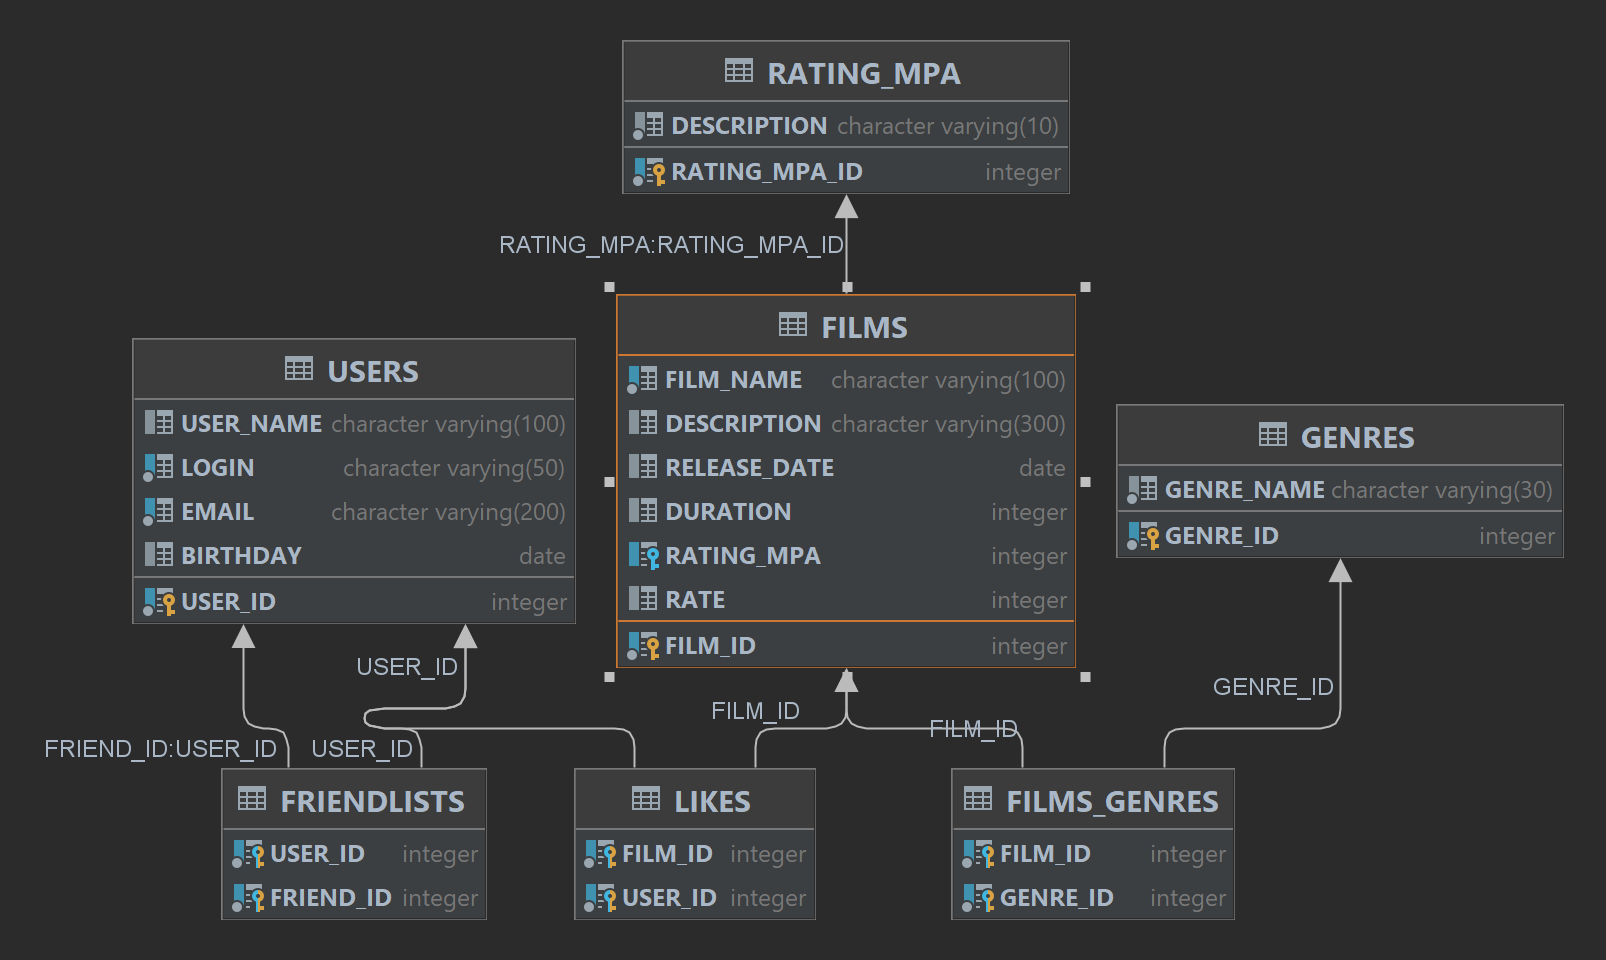
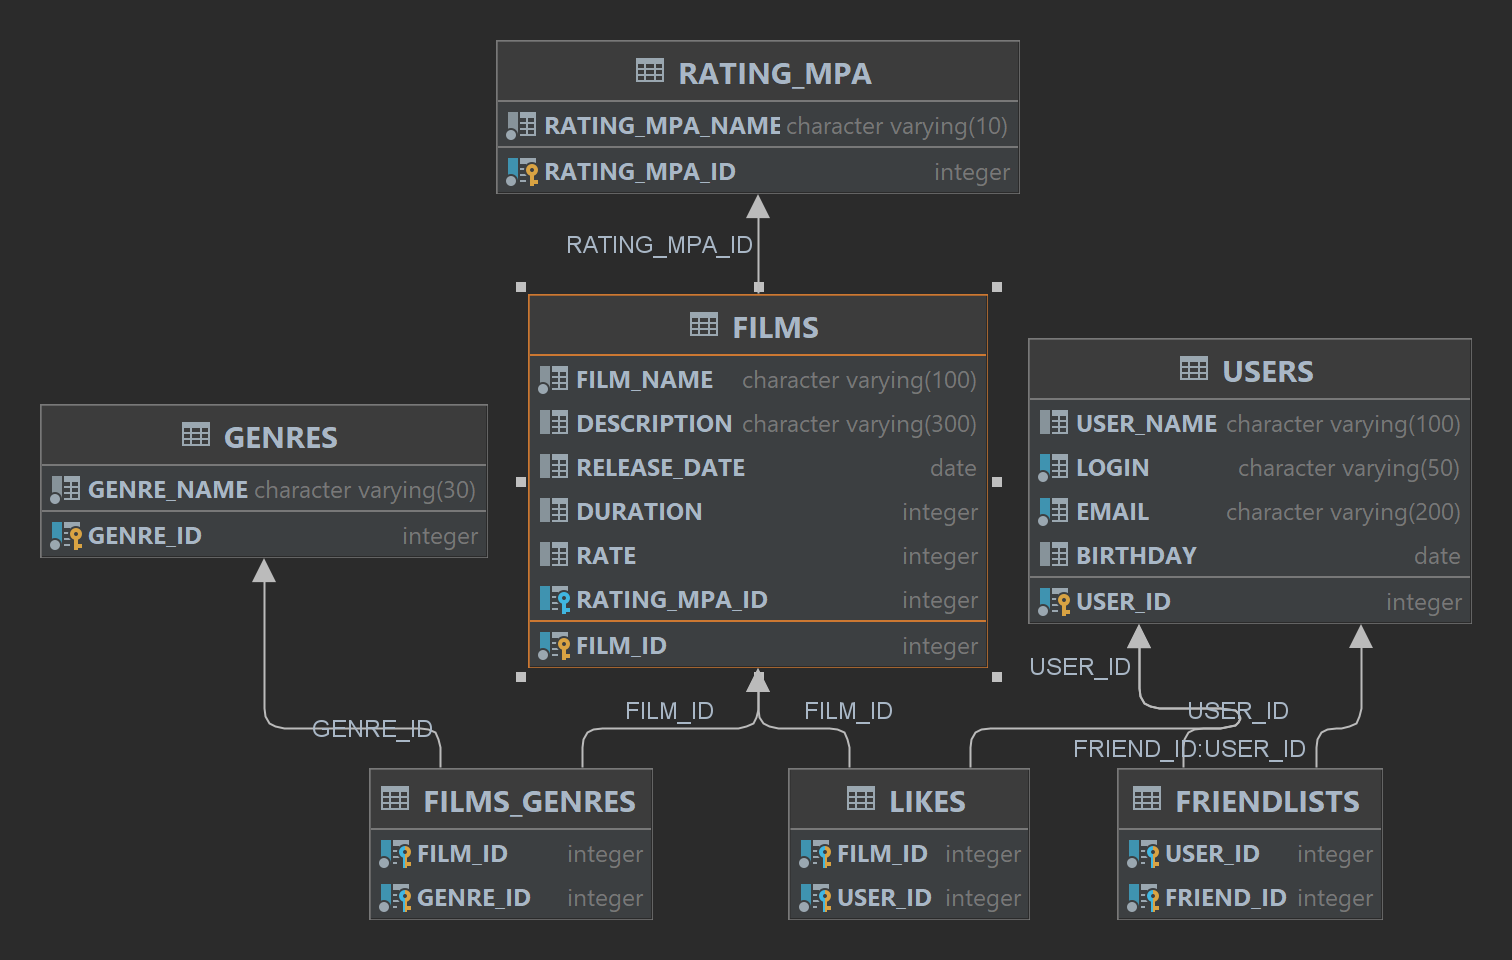
Поправил название столбцов в SQL запросах Обращать внимание на используемые столбцы, если названия столбцов совпадают из разных таблиц

diff --git a/src/main/java/ru/yandex/practicum/filmorate/storage/film/FilmDbStorage.java b/src/main/java/ru/yandex/practicum/filmorate/storage/film/FilmDbStorage.java
@@ -32,8 +32,8 @@ public class FilmDbStorage implements FilmStorage {
         LocalDate releaseDate = rs.getDate("RELEASE_DATE").toLocalDate();
         int duration = rs.getInt("DURATION");
         int rate = rs.getInt("RATE");
-        Mpa mpa = new Mpa(rs.getLong("RATING_MPA"), rs.getString("DESCRIPTION"));
-        Set<Genre> genres = genreMap.getOrDefault(id, new HashSet<>()); // проверить можно ли так записать в Set!!!
+        Mpa mpa = new Mpa(rs.getLong("RATING_MPA_ID"), rs.getString("RATING_MPA_NAME"));
+        Set<Genre> genres = genreMap.getOrDefault(id, new HashSet<>());
 
         return new Film(id, name, description, releaseDate, duration, rate, mpa, genres);
     }
@@ -60,8 +60,8 @@ public class FilmDbStorage implements FilmStorage {
     @Override
     public Collection<Film> findAllFilms() {
         String sqlFilm = "select f.FILM_ID, f.FILM_NAME, f.DESCRIPTION, f.RELEASE_DATE, " +
-                "f.DURATION, f.RATE, f.RATING_MPA, mpa.DESCRIPTION " +
-                "from FILMS as f join RATING_MPA as mpa on f.RATING_MPA = mpa.RATING_MPA_ID";
+                "f.DURATION, f.RATE, f.RATING_MPA_ID, mpa.RATING_MPA_NAME " +
+                "from FILMS as f join RATING_MPA as mpa on f.RATING_MPA_ID = mpa.RATING_MPA_ID";
 
         String sqlGenre = "select fg.FILM_ID, fg.GENRE_ID, g.GENRE_NAME " +
                 "from FILMS_GENRES as fg join GENRES as g on fg.GENRE_ID = g.GENRE_ID";
@@ -78,8 +78,8 @@ public class FilmDbStorage implements FilmStorage {
     public Optional<Film> getFilmByID(Long filmId) {
         // выполняем запрос к базе данных
         String sqlFilm = "select f.FILM_ID, f.FILM_NAME, f.DESCRIPTION, f.RELEASE_DATE, " +
-                "f.DURATION, f.RATE, f.RATING_MPA, mpa.DESCRIPTION " +
-                "from FILMS as f join RATING_MPA as mpa on f.RATING_MPA = mpa.RATING_MPA_ID " +
+                "f.DURATION, f.RATE, f.RATING_MPA_ID, mpa.RATING_MPA_NAME " +
+                "from FILMS as f join RATING_MPA as mpa on f.RATING_MPA_ID = mpa.RATING_MPA_ID " +
                 "where f.FILM_ID = ?";
 
         String sqlGenre = "select fg.FILM_ID, fg.GENRE_ID, g.GENRE_NAME " +
@@ -99,7 +99,7 @@ public class FilmDbStorage implements FilmStorage {
                     filmRow.getDate("RELEASE_DATE").toLocalDate(),
                     filmRow.getInt("DURATION"),
                     filmRow.getInt("RATE"),
-                    new Mpa(filmRow.getLong("RATING_MPA"), filmRow.getString("DESCRIPTION")),
+                    new Mpa(filmRow.getLong("RATING_MPA_ID"), filmRow.getString("RATING_MPA_NAME")),
                     genreMap.getOrDefault(filmId, new HashSet<>())
             );
             log.info("Найден фильм: {} {}", film.getId(), film.getName());
@@ -109,7 +109,6 @@ public class FilmDbStorage implements FilmStorage {
             return Optional.empty();
         }
     }
-
 
     // создание фильма
     @Override
@@ -140,7 +139,7 @@ public class FilmDbStorage implements FilmStorage {
         values.put("RELEASE_DATE", film.getReleaseDate());
         values.put("DURATION", film.getDuration());
         values.put("RATE", film.getRate());
-        values.put("RATING_MPA", film.getMpa().getId());
+        values.put("RATING_MPA_ID", film.getMpa().getId());
         return values;
     }
 
@@ -148,7 +147,7 @@ public class FilmDbStorage implements FilmStorage {
     @Override
     public Film updateFilm(Film film) {
         String sqlFilm = "update FILMS set " +
-                "FILM_NAME = ?, DESCRIPTION = ?, RELEASE_DATE =?, DURATION = ?, RATE = ?, RATING_MPA = ? " +
+                "FILM_NAME = ?, DESCRIPTION = ?, RELEASE_DATE =?, DURATION = ?, RATE = ?, RATING_MPA_ID = ? " +
                 "WHERE FILM_ID = ?";
 
         jdbcTemplate.update(sqlFilm,
@@ -180,12 +179,18 @@ public class FilmDbStorage implements FilmStorage {
         jdbcTemplate.update(sqlAddLike, filmId, userId);
 
         // надо RATE в таблице FILMS обновить
-        String sqlIncreaseRate = "UPDATE FILMS as f SET f.RATE = (" +
+        String sqlIncreaseRate = "UPDATE FILMS as f SET f.RATE = f.RATE + 1 WHERE f.FILM_ID = ? ";
+
+        // ниже код, если считаем RATE по таблице LIKES каждый раз после добавления/удаления лайка
+        // в тестах подразумевается, что добавил лайк +1 к RATE, удалил лайк -1 от RATE
+        // что оптимальнее и правильнее наверное
+        /* "(" +
                 "SELECT COUNT(l.USER_ID) " +
                 "FROM LIKES as l " +
                 "WHERE l.FILM_ID = ?)" +
                 "WHERE f.FILM_ID = ?";
-        jdbcTemplate.update(sqlIncreaseRate, filmId, filmId);
+         */
+        jdbcTemplate.update(sqlIncreaseRate, filmId);
         log.debug("Пользователь {} поставил лайк фильму {}", userId, filmId);
     }
 
@@ -197,12 +202,16 @@ public class FilmDbStorage implements FilmStorage {
         jdbcTemplate.update(sqlRemoveLike, filmId, userId);
 
         // надо RATE в таблице FILMS обновить
-        String sqlDecreaseRate = "UPDATE FILMS as f SET f.RATE = (" +
+        String sqlDecreaseRate = "UPDATE FILMS as f SET f.RATE = f.RATE - 1 WHERE f.FILM_ID = ? ";
+        /*
+                "(" +
                 "SELECT COUNT(l.USER_ID) " +
                 "FROM LIKES as l " +
                 "WHERE l.FILM_ID = ?)" +
                 "WHERE f.FILM_ID = ?";
-        jdbcTemplate.update(sqlDecreaseRate, filmId, filmId);
+
+         */
+        jdbcTemplate.update(sqlDecreaseRate, filmId);
         log.debug("Пользователь {} удалил лайк фильму {}", userId, filmId);
     }
 
@@ -210,8 +219,8 @@ public class FilmDbStorage implements FilmStorage {
     @Override
     public List<Film> getPopularFilms(Integer count) {
         String sqlFilm = "select f.FILM_ID, f.FILM_NAME, f.DESCRIPTION, f.RELEASE_DATE, " +
-                "f.DURATION, f.RATE, f.RATING_MPA, mpa.DESCRIPTION " +
-                "from FILMS as f join RATING_MPA as mpa on f.RATING_MPA = mpa.RATING_MPA_ID " +
+                "f.DURATION, f.RATE, f.RATING_MPA_ID, mpa.RATING_MPA_NAME " +
+                "from FILMS as f join RATING_MPA as mpa on f.RATING_MPA_ID = mpa.RATING_MPA_ID " +
                 "ORDER BY f.RATE DESC " +
                 "LIMIT ?";
 

diff --git a/src/main/java/ru/yandex/practicum/filmorate/controller/MpaController.java b/src/main/java/ru/yandex/practicum/filmorate/controller/MpaController.java
@@ -5,12 +5,12 @@ import org.springframework.web.bind.annotation.GetMapping;
 import org.springframework.web.bind.annotation.PathVariable;
 import org.springframework.web.bind.annotation.RequestMapping;
 import org.springframework.web.bind.annotation.RestController;
+import ru.yandex.practicum.filmorate.exceptions.NotFoundException;
 import ru.yandex.practicum.filmorate.exceptions.ValidationException;
 import ru.yandex.practicum.filmorate.model.Mpa;
 import ru.yandex.practicum.filmorate.service.MpaService;
 
 import java.util.Collection;
-import java.util.Optional;
 
 @RestController
 @RequestMapping("/mpa")
@@ -28,10 +28,10 @@ public class MpaController {
     }
 
     @GetMapping("/{id}") // получение рейтинга по ID
-    public Optional<Mpa> getGenreByID(@PathVariable Long id) {
+    public Mpa getGenreByID(@PathVariable Long id) {
         if (id == 0) {
             throw new ValidationException("Передан пустой ID");
         }
-        return mpaService.getMpaByID(id);
+        return mpaService.getMpaByID(id).orElseThrow(() -> new NotFoundException("MPA with id=" + id + " not found"));
     }
 }

diff --git a/src/main/java/ru/yandex/practicum/filmorate/controller/GenreController.java b/src/main/java/ru/yandex/practicum/filmorate/controller/GenreController.java
@@ -2,12 +2,12 @@ package ru.yandex.practicum.filmorate.controller;
 
 import org.springframework.beans.factory.annotation.Autowired;
 import org.springframework.web.bind.annotation.*;
+import ru.yandex.practicum.filmorate.exceptions.NotFoundException;
 import ru.yandex.practicum.filmorate.exceptions.ValidationException;
 import ru.yandex.practicum.filmorate.model.Genre;
 import ru.yandex.practicum.filmorate.service.GenreService;
 
 import java.util.Collection;
-import java.util.Optional;
 
 @RestController
 @RequestMapping("/genres")
@@ -25,10 +25,10 @@ public class GenreController {
     }
 
     @GetMapping("/{id}") // получение жанра по ID
-    public Optional<Genre> getGenreByID(@PathVariable Long id) {
+    public Genre getGenreByID(@PathVariable Long id) {
         if (id == null) {
             throw new ValidationException("Передан пустой ID");
         }
-        return genreService.getGenreByID(id);
+        return genreService.getGenreByID(id).orElseThrow(() -> new NotFoundException("Genre with id=" + id + " not found"));
     }
 }

diff --git a/src/main/java/ru/yandex/practicum/filmorate/storage/mpa/MpaDbStorage.java b/src/main/java/ru/yandex/practicum/filmorate/storage/mpa/MpaDbStorage.java
@@ -22,8 +22,8 @@ public class MpaDbStorage implements MpaStorage {
 
     private Mpa makeMpa(ResultSet rs) throws SQLException {
         // используем конструктор, методы ResultSet и готовое значение mpa
-        Long id = rs.getLong("RATING_MPA");
-        String description = rs.getString("DESCRIPTION");
+        Long id = rs.getLong("RATING_MPA_ID");
+        String description = rs.getString("RATING_MPA_NAME");
         return new Mpa(id, description);
     }
 
@@ -45,7 +45,7 @@ public class MpaDbStorage implements MpaStorage {
         if(mpaRows.next()) {
             Mpa mpa = new Mpa(
                     mpaRows.getLong("RATING_MPA_ID"),
-                    mpaRows.getString("DESCRIPTION"));
+                    mpaRows.getString("RATING_MPA_NAME"));
             log.info("Найден рейтинг: {} {}", mpa.getId(), mpa.getName());
             return Optional.of(mpa);
         } else {

diff --git a/src/main/java/ru/yandex/practicum/filmorate/controller/FilmController.java b/src/main/java/ru/yandex/practicum/filmorate/controller/FilmController.java
@@ -10,7 +10,6 @@ import ru.yandex.practicum.filmorate.service.UserService;
 
 import java.util.Collection;
 import java.util.List;
-import java.util.Optional;
 
 import static ru.yandex.practicum.filmorate.Constants.FIRST_RELEASE_DATE;
 
@@ -69,7 +68,7 @@ public class FilmController {
     @GetMapping("/popular") // возвращает список из первых count фильмов по количеству лайков
     // Если значение параметра count не задано, верните первые 10.
     public List<Film> getPopularFilms(
-            @RequestParam(defaultValue = "10", required = false) Integer count) {
+            @RequestParam(defaultValue = "10", required = false) int count) {
         return filmService.getPopularFilms(count);
     }
 
